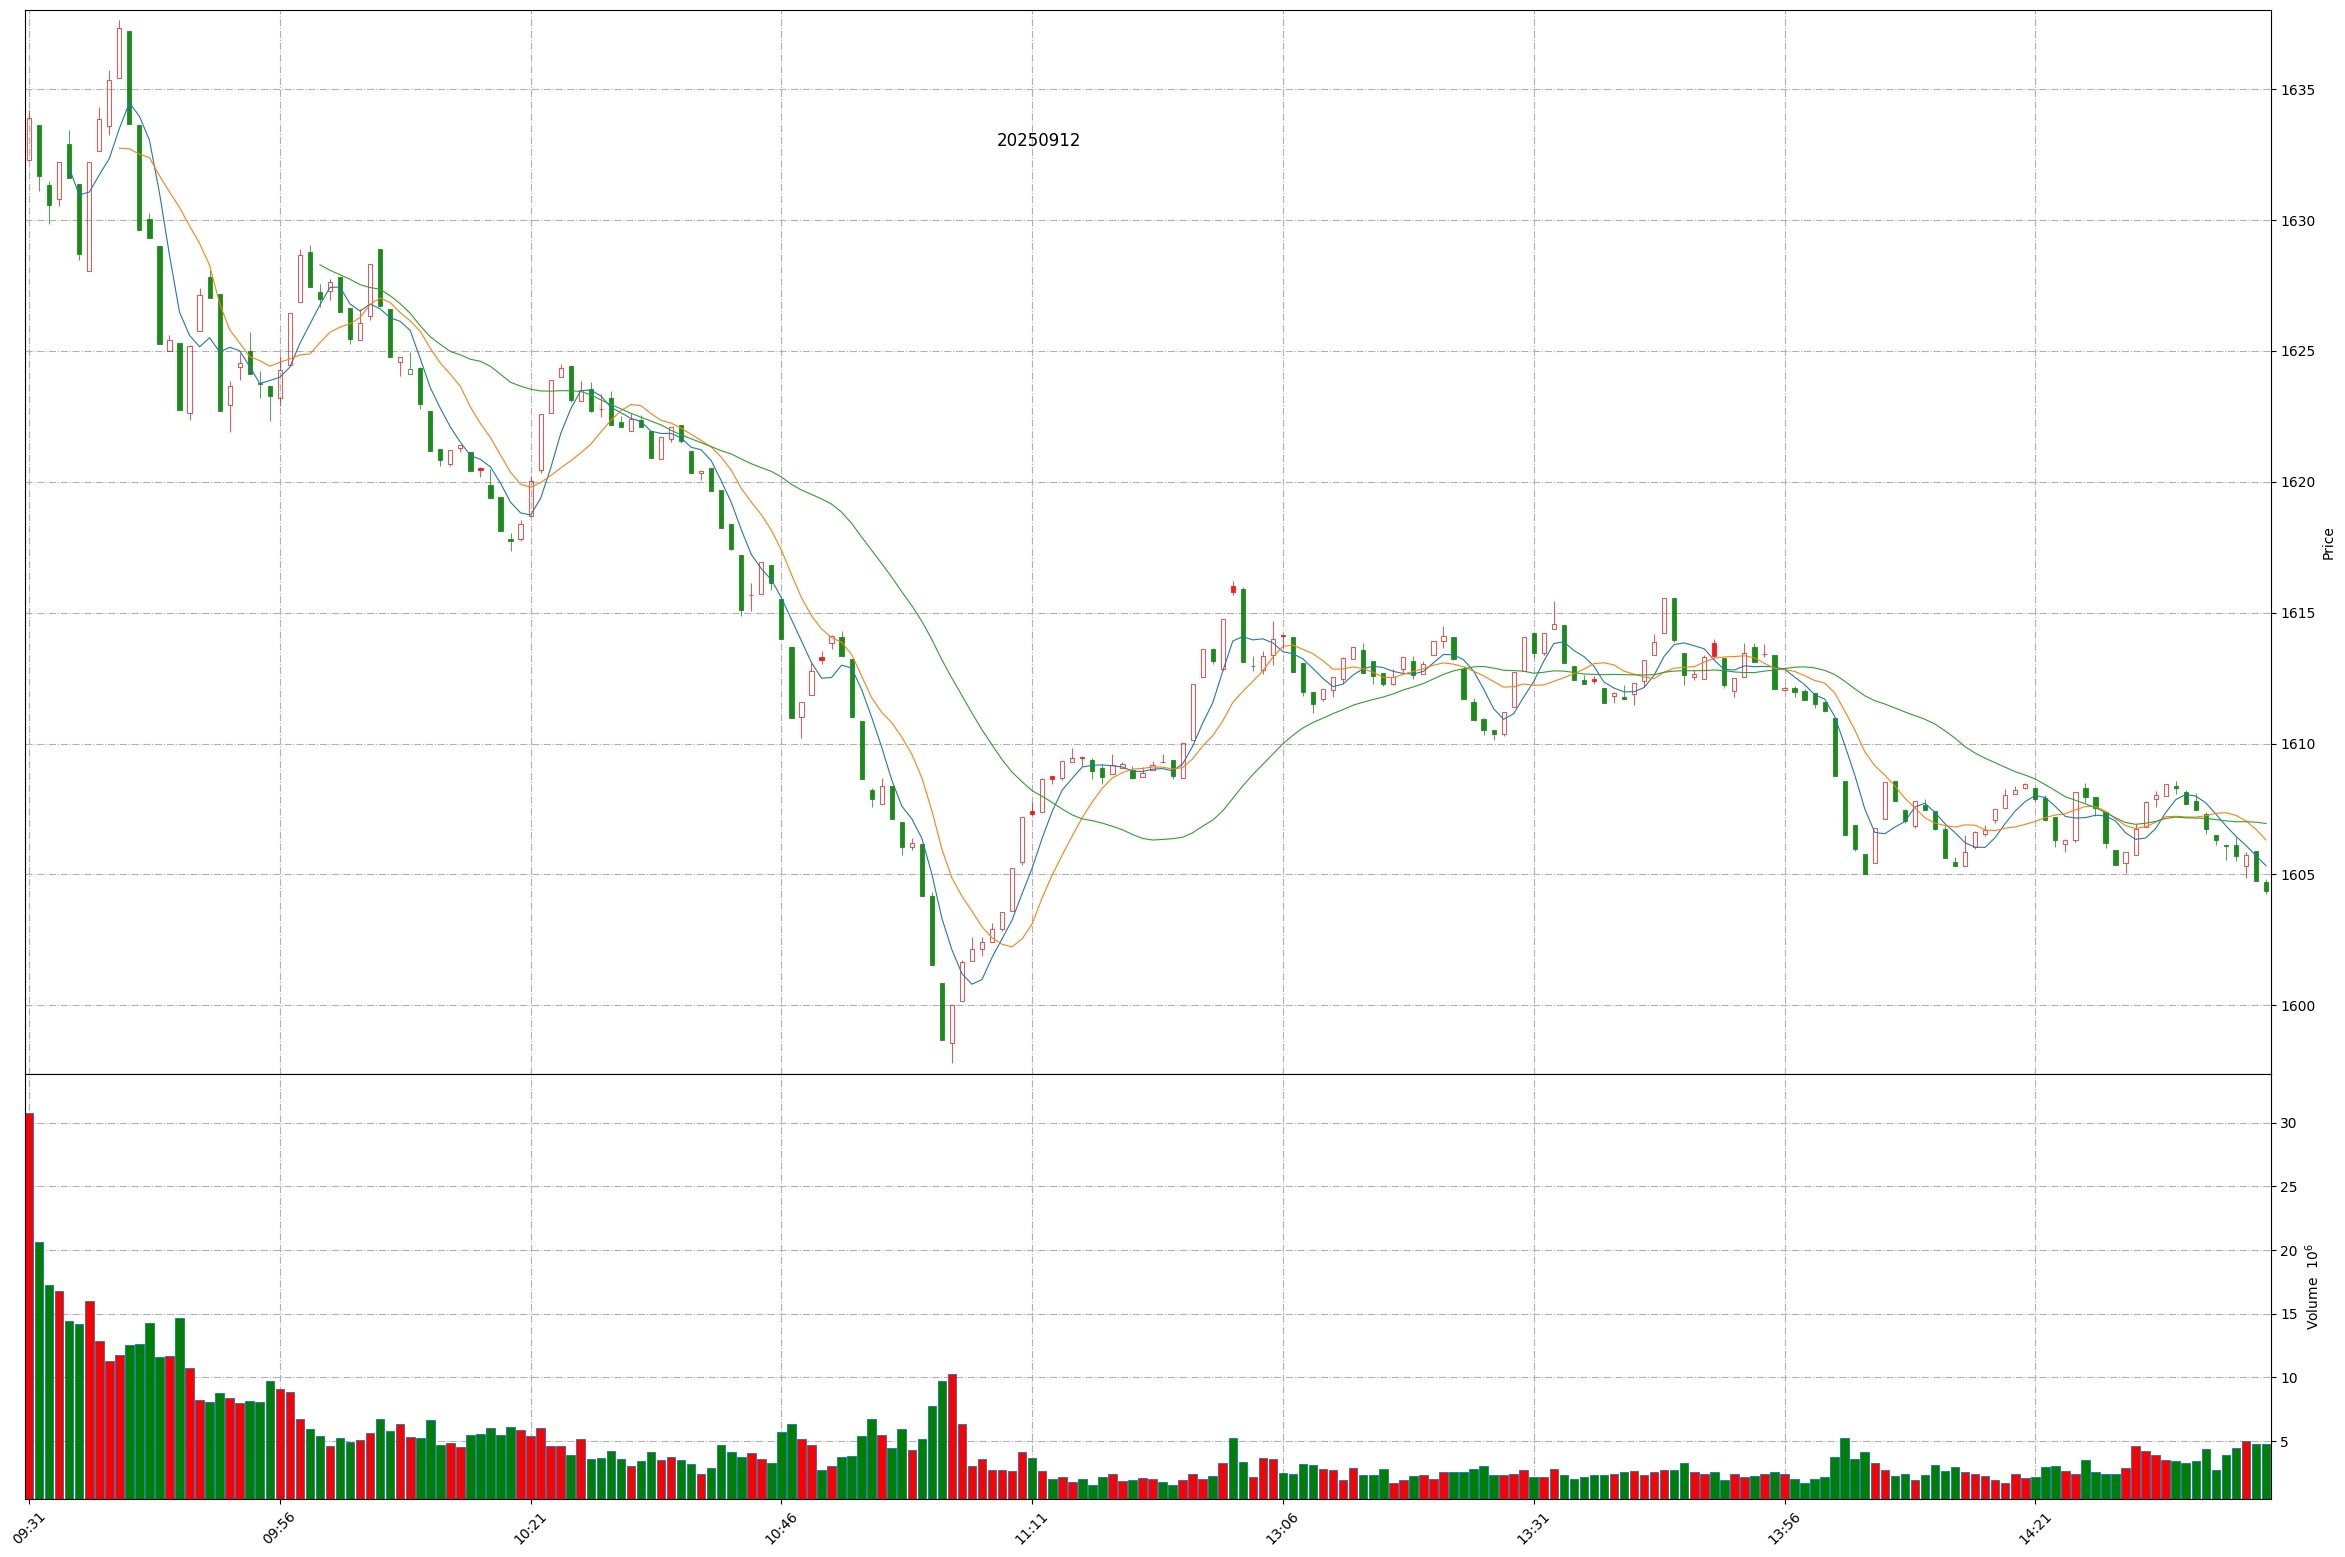
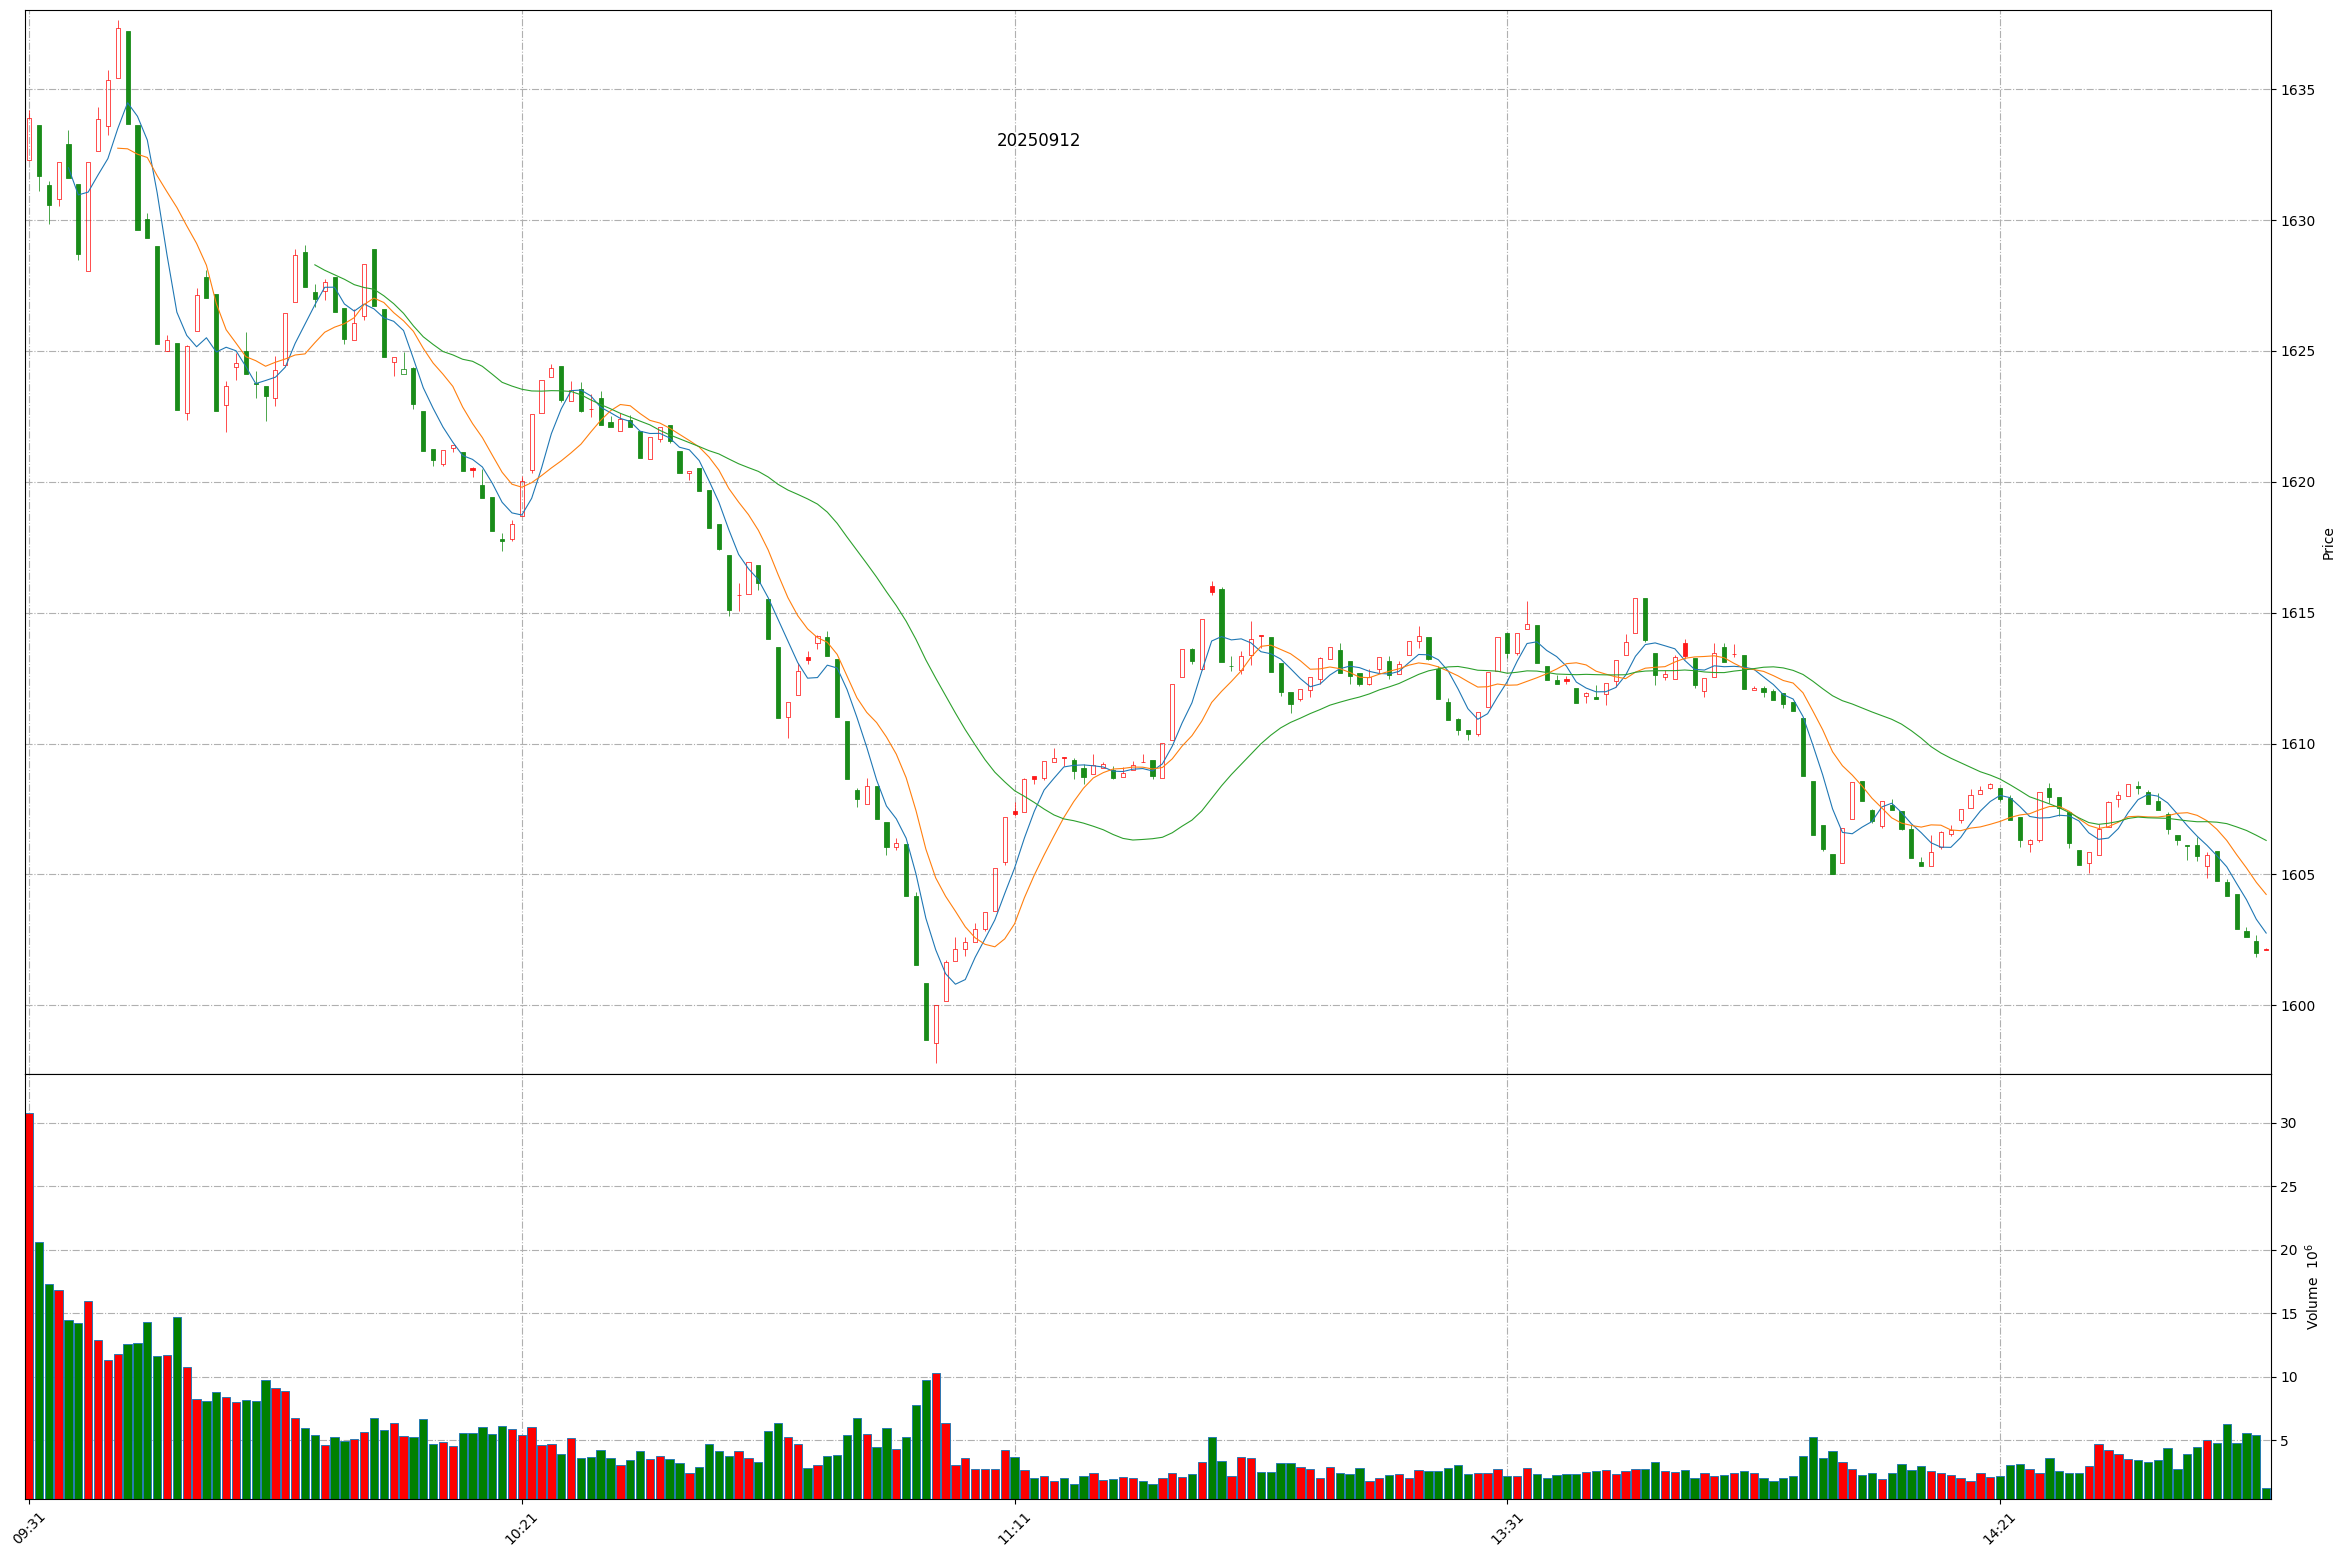
Github action update at 2025-09-12 14:47:23.

diff --git a/README.md b/README.md
@@ -1,11 +1,11 @@
 
 # Daily-A-share-market-quotes 每日 A 股指数（5min 更新）- 20250912
 
-### 上证指数 20250912 14:43
+### 上证指数 20250912 14:47
 ![](./fig/2025/9/20250912-sh000001.png)
 
-### 深证成指 20250912 14:43
+### 深证成指 20250912 14:47
 ![](./fig/2025/9/20250912-sz399001.png)
 
-### 北证50 20250912 14:43
+### 北证50 20250912 14:47
 ![](./fig/2025/9/20250912-bj899050.png)
